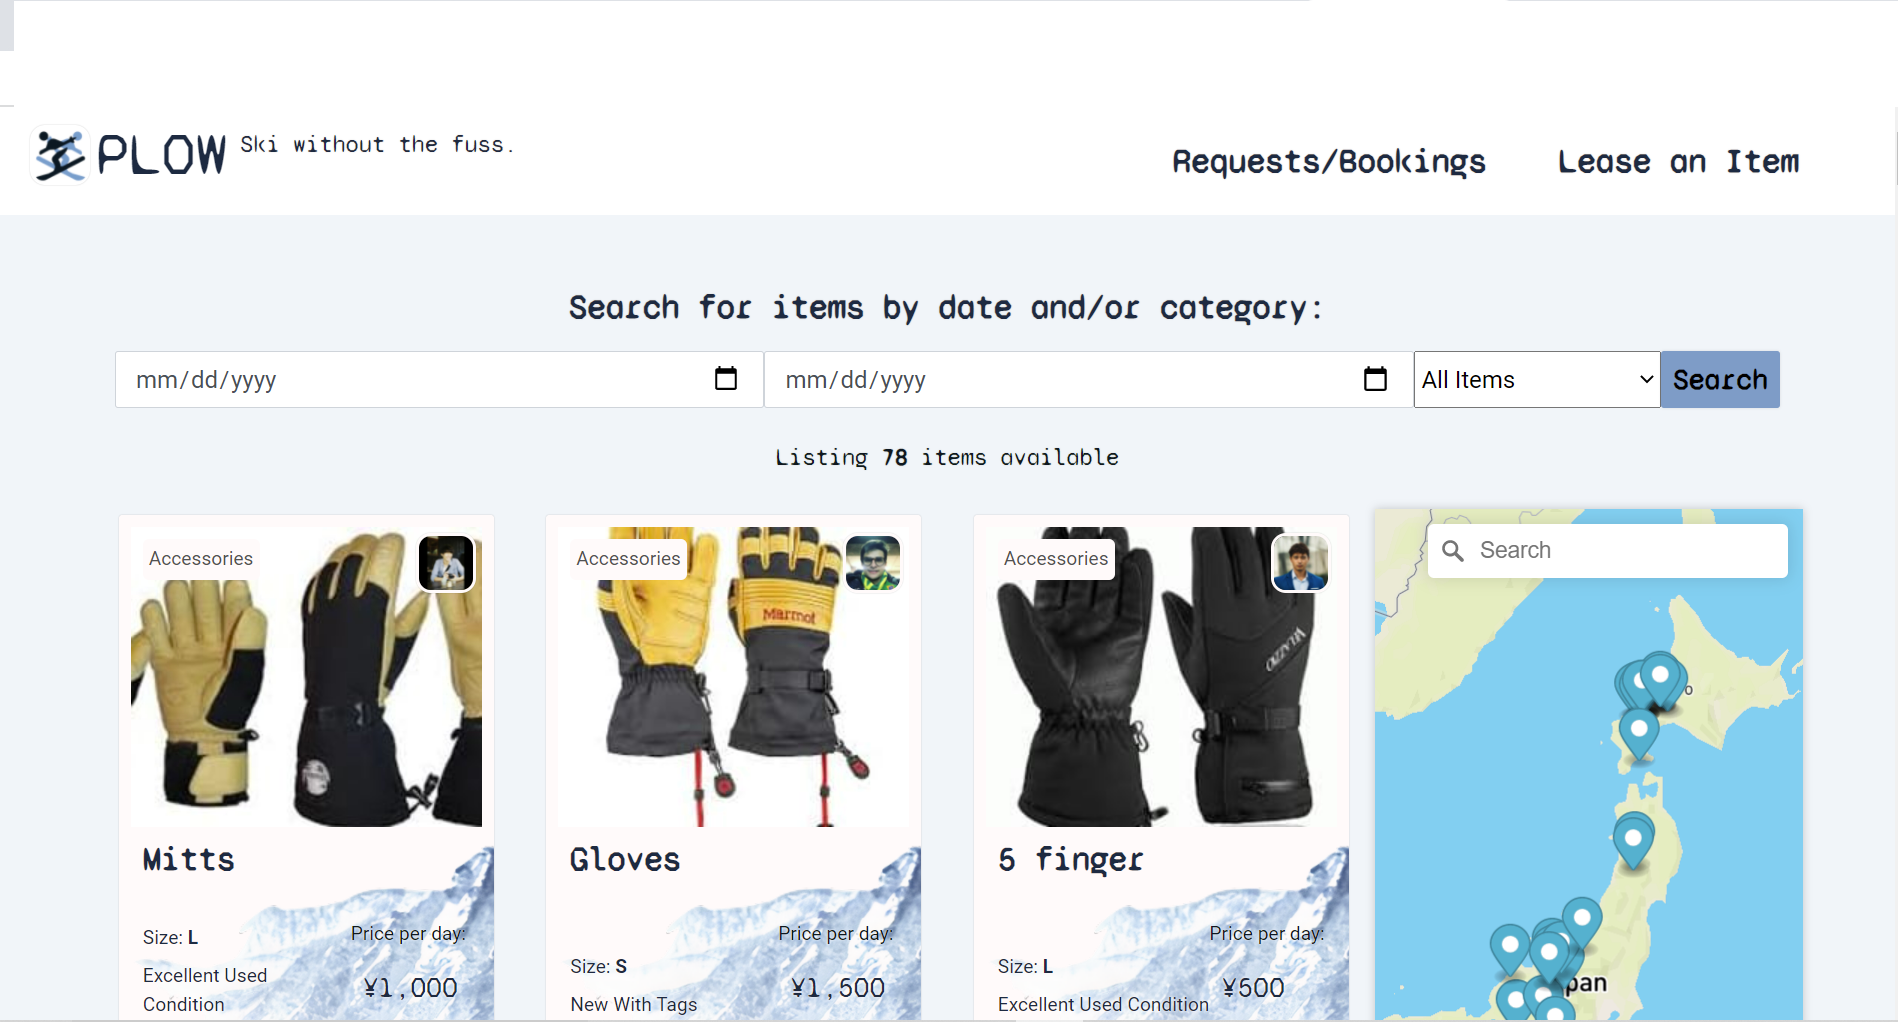
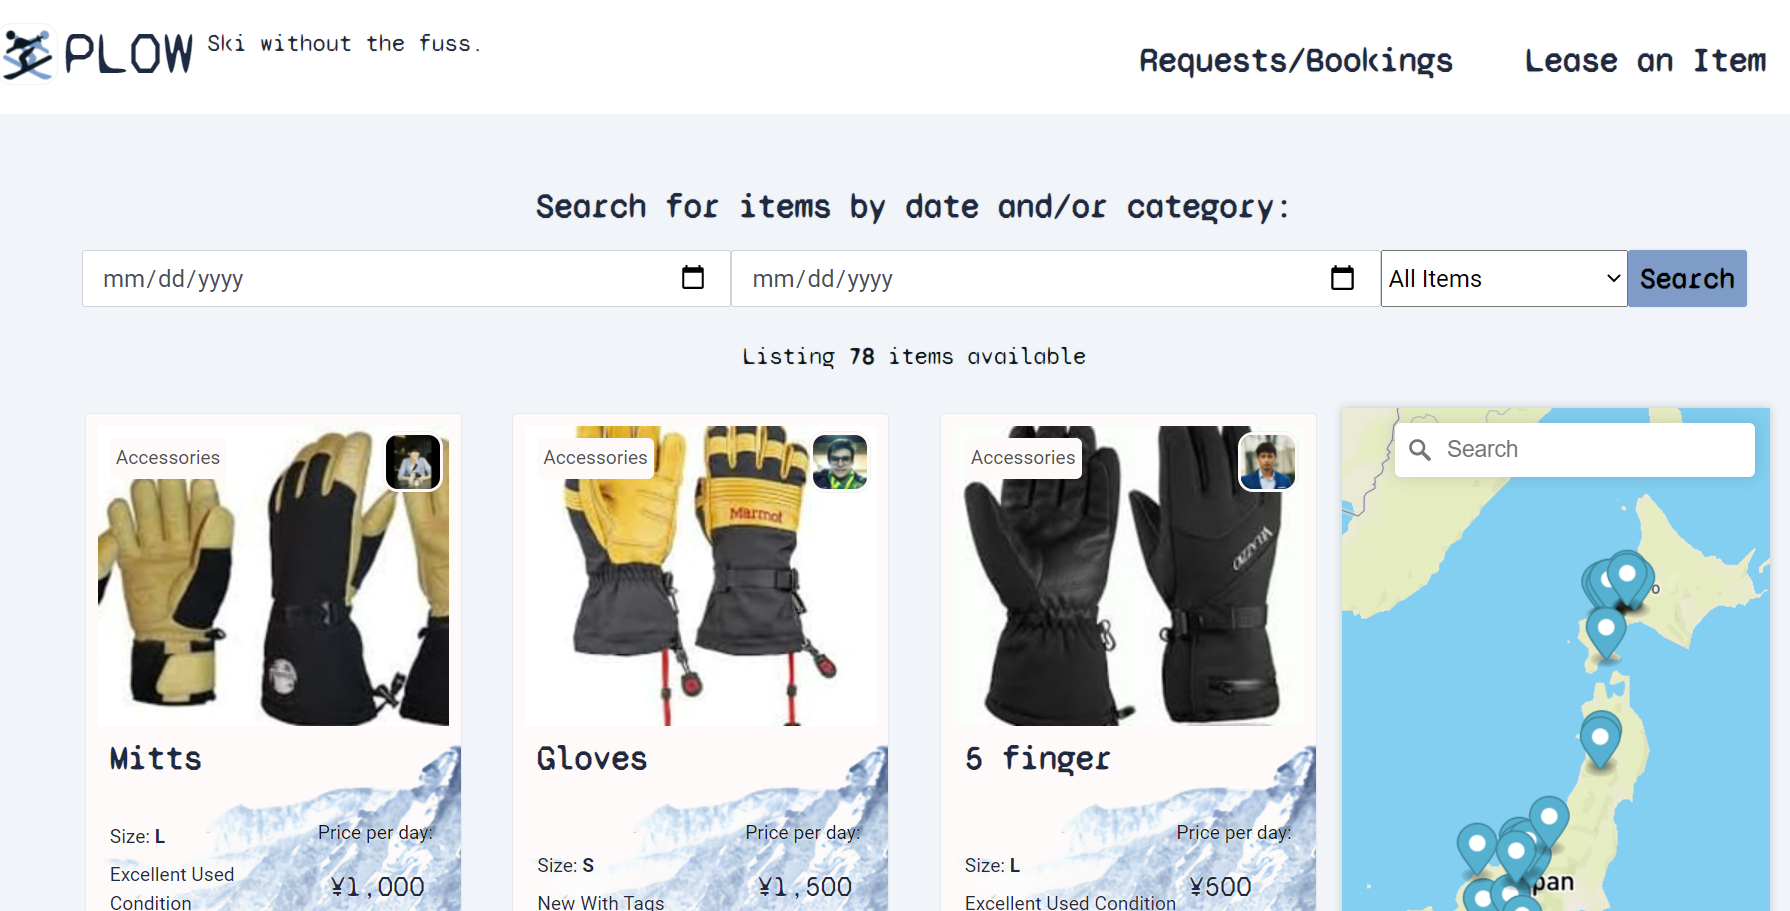
first version created, fixed external link position, centered images, borders still on

diff --git a/source/assets/stylesheets/components/_cards.scss b/source/assets/stylesheets/components/_cards.scss
@@ -1,15 +1,29 @@
 .product-img {
   height: 250px;
+  display: block;
+  margin-left: auto;
+  margin-right: auto;
 }
 
 .card-each {
   border: 1px solid blue;
   margin: 32px 0px;
+  background-color: rgba(204, 209, 209, 0.5);
+  border-radius: 8px;
+  padding: 0px 16px;
   h5 {
     margin-top: 16px;
+    font-family: 'Francois One', sans-serif;
+    font-size: 24px;
+  }
+  p {
+    letter-spacing: 2px;
+    font-size: 16px;
+    font-family: 'Francois One', sans-serif;
   }
 }
 
 .card-tag {
   border: 1px solid green;
+  font-size: 50px;
 }

diff --git a/source/assets/stylesheets/components/_container.scss b/source/assets/stylesheets/components/_container.scss
@@ -34,3 +34,19 @@
 .img-tag-container {
   display: flex;
 }
+
+.tags-link-container {
+  display: flex;
+  position: relative;
+  justify-content: space-between;
+  align-items: center;
+  margin: 8px 0px;
+  border: 1px solid red;
+  .fas {
+    font-size: 24px;
+    color: black;
+    position: absolute;
+    top: -80px;
+    right: -3px;
+  }
+}
